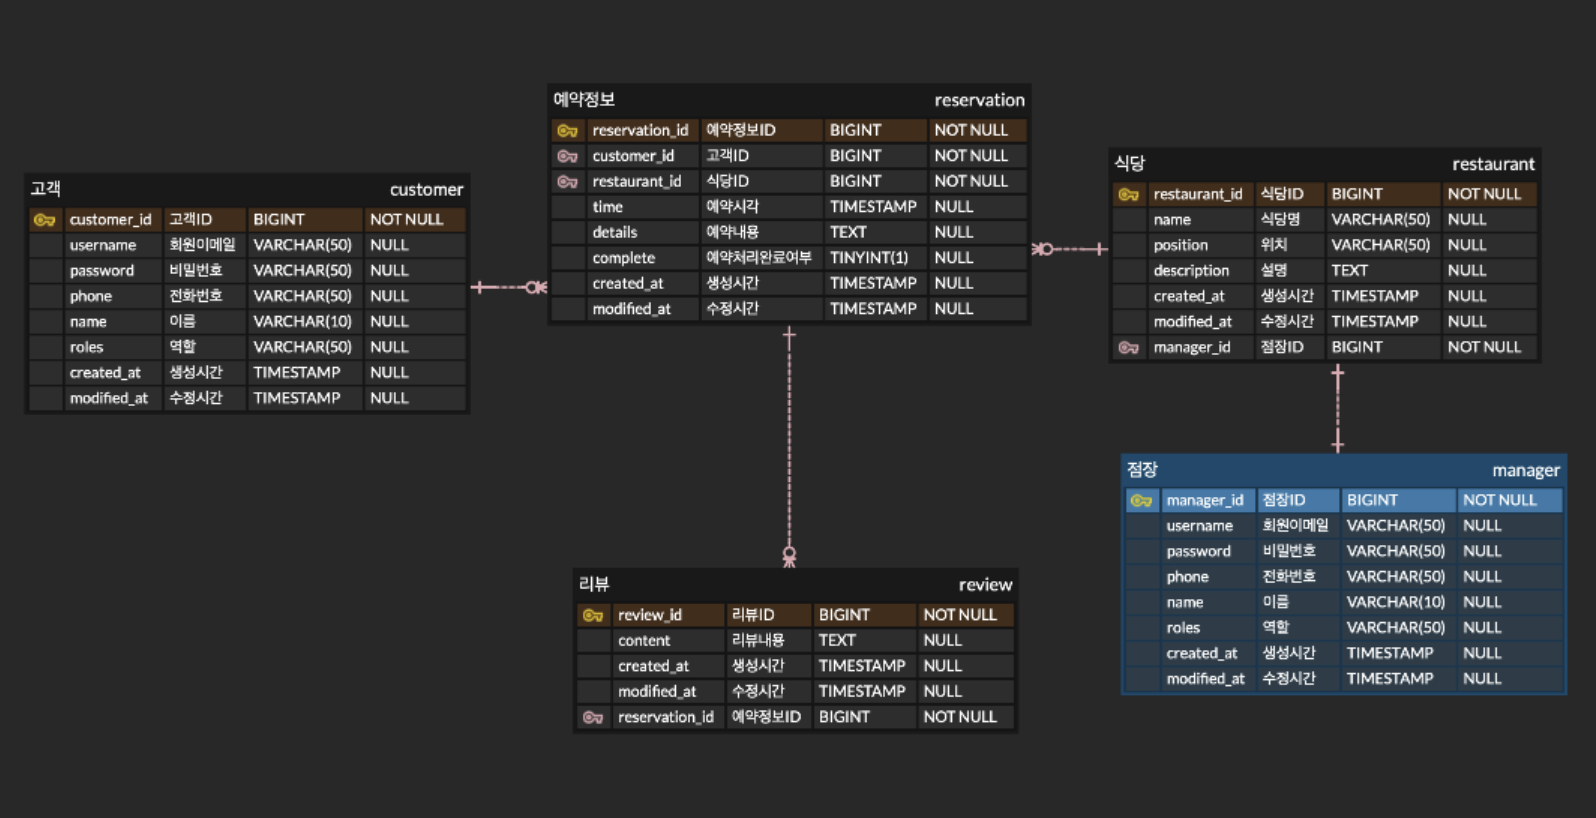
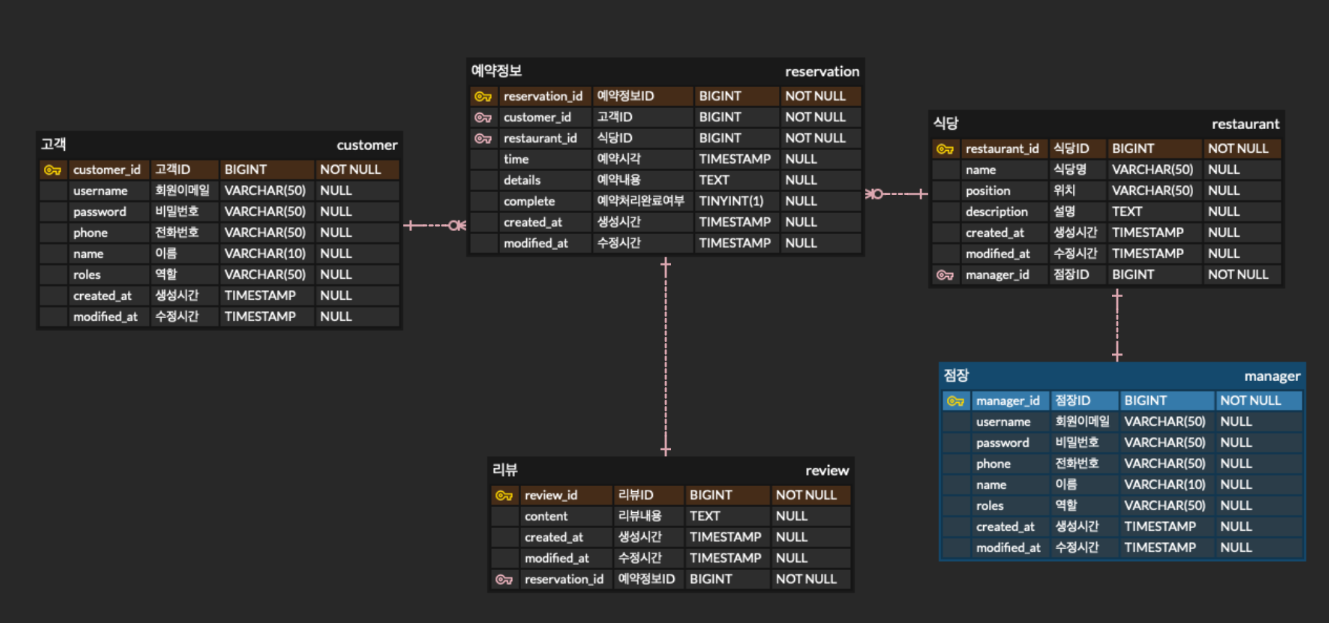
feat: [004-RESTAURANT-CREATE] 식당 등록 및 식당 전체 조회 구현
- Restaurant 관련 레포지토리 및 DTO 추가
- 식당 등록을 구현함.
- 임시로 사용할 식당 조회 로직을 구현함.
- 로그인 시, 쿠키 기반으로 현재 등록된 유저 정보를 가져오는 기능 모듈 추가
- 패키지명 수정. domain -> persist
- API 테스트 완료.
- README UPDATE

Changed region(s): [[0.6479, 0.183, 0.9872, 0.9149], [0.0, 0.0915, 0.6479, 0.5185], [0.3394, 0.3965, 0.6479, 0.9454]]

diff --git a/src/main/java/com/zerobase/tablereservation/src/service/AuthService.java b/src/main/java/com/zerobase/tablereservation/src/service/AuthService.java
@@ -2,17 +2,21 @@ package com.zerobase.tablereservation.src.service;
 
 import com.zerobase.tablereservation.common.constant.Auth;
 import com.zerobase.tablereservation.common.constant.Authority;
-import com.zerobase.tablereservation.src.domain.CustomerRepository;
-import com.zerobase.tablereservation.src.domain.ManagerRepository;
-import com.zerobase.tablereservation.src.domain.entity.Customer;
-import com.zerobase.tablereservation.src.domain.entity.Manager;
+import com.zerobase.tablereservation.src.persist.CustomerRepository;
+import com.zerobase.tablereservation.src.persist.ManagerRepository;
+import com.zerobase.tablereservation.src.persist.entity.Customer;
+import com.zerobase.tablereservation.src.persist.entity.Manager;
+import com.zerobase.tablereservation.src.model.UserVO;
 import lombok.RequiredArgsConstructor;
 import lombok.extern.slf4j.Slf4j;
+import org.springframework.security.core.Authentication;
+import org.springframework.security.core.context.SecurityContextHolder;
 import org.springframework.security.core.userdetails.UserDetails;
 import org.springframework.security.core.userdetails.UserDetailsService;
 import org.springframework.security.core.userdetails.UsernameNotFoundException;
 import org.springframework.security.crypto.password.PasswordEncoder;
 import org.springframework.stereotype.Service;
+import org.springframework.util.ObjectUtils;
 
 import java.util.ArrayList;
 import java.util.List;
@@ -83,6 +87,37 @@ public class AuthService implements UserDetailsService {
         return manager;
     }
 
+    /*
+     현재 등록된 유저 정보 가져오기 (UserVO, - userId와 userName)
+     */
+    public UserVO getCurrentUserVO() {
+        Authentication authentication = SecurityContextHolder.getContext().getAuthentication();
+        if (!ObjectUtils.isEmpty(authentication) && authentication.isAuthenticated()) {
+            Object principal = authentication.getPrincipal();
+            if (principal instanceof UserDetails) {
+                var name = ((UserDetails) principal).getUsername();
+                var userdetails = loadUserByUsername(name);
+                if (userdetails instanceof Customer){
+                    return UserVO.builder()
+                            .userId(((Customer) userdetails).getId())
+                            .username(name)
+                            .build();
+                }
+
+                if (userdetails instanceof Manager){
+                    return UserVO.builder()
+                            .userId(((Manager) userdetails).getId())
+                            .username(name)
+                            .build();
+                }
+            }
+        }
+        throw new IllegalStateException("현재 로그인을 하지 않았거나 유저 정보가 존재하지 않습니다.");
+    }
+
+    /*
+       username으로 정보 가져오기.
+     */
     @Override
     public UserDetails loadUserByUsername(String username) throws UsernameNotFoundException {
         Optional<Customer> customerOptional = customerRepository.findByUsername(username);

diff --git a/src/main/java/com/zerobase/tablereservation/src/service/RestaurantService.java b/src/main/java/com/zerobase/tablereservation/src/service/RestaurantService.java
@@ -1,0 +1,47 @@
+package com.zerobase.tablereservation.src.service;
+
+import com.zerobase.tablereservation.src.persist.ManagerRepository;
+import com.zerobase.tablereservation.src.persist.RestaurantRepository;
+import com.zerobase.tablereservation.src.persist.entity.Manager;
+import com.zerobase.tablereservation.src.persist.entity.Restaurant;
+import com.zerobase.tablereservation.src.model.RestaurantRegisterDTO;
+import com.zerobase.tablereservation.src.model.UserVO;
+import lombok.RequiredArgsConstructor;
+import org.springframework.stereotype.Service;
+import org.springframework.transaction.annotation.Transactional;
+
+@Service
+@RequiredArgsConstructor
+public class RestaurantService {
+    private final RestaurantRepository restaurantRepository;
+    private final ManagerRepository managerRepository;
+    private final AuthService authService;
+
+    /*
+    식당 등록하기
+     */
+    @Transactional
+    public void registerRestaurant(RestaurantRegisterDTO dto){
+        UserVO userVO = authService.getCurrentUserVO();
+
+        Manager manager = managerRepository.findById(userVO.getUserId())
+                .orElseThrow(() -> new IllegalStateException("사용자를 찾을 수 없습니다."));
+
+        Restaurant restaurant = dto.toEntity();
+        restaurant.designateManager(manager);
+
+        restaurantRepository.save(restaurant);
+    }
+
+    /*
+    식당 수정하기
+     */
+
+
+
+    /*
+    식당 삭제하기
+     */
+
+
+}

diff --git a/src/main/java/com/zerobase/tablereservation/src/persist/entity/Manager.java b/src/main/java/com/zerobase/tablereservation/src/persist/entity/Manager.java
@@ -1,4 +1,4 @@
-package com.zerobase.tablereservation.src.domain.entity;
+package com.zerobase.tablereservation.src.persist.entity;
 
 
 import com.zerobase.tablereservation.common.entity.BaseEntity;
@@ -21,7 +21,7 @@ import java.util.stream.Collectors;
 @NoArgsConstructor
 @AllArgsConstructor
 @AuditOverride(forClass = BaseEntity.class)
-public class Customer extends BaseEntity implements UserDetails {
+public class Manager extends BaseEntity implements UserDetails {
     @Id
     @GeneratedValue(strategy = GenerationType.IDENTITY)
     private Long id;
@@ -32,7 +32,6 @@ public class Customer extends BaseEntity implements UserDetails {
     private String phone;
     private String name;
 
-    @Builder.Default
     @ElementCollection(fetch = FetchType.EAGER)
     private List<String> roles = new ArrayList<>();
 
@@ -42,4 +41,5 @@ public class Customer extends BaseEntity implements UserDetails {
                 .map(SimpleGrantedAuthority::new)
                 .collect(Collectors.toList());
     }
+
 }

diff --git a/src/main/java/com/zerobase/tablereservation/src/web/RestaurantController.java b/src/main/java/com/zerobase/tablereservation/src/web/RestaurantController.java
@@ -1,0 +1,26 @@
+package com.zerobase.tablereservation.src.web;
+
+import com.zerobase.tablereservation.src.model.RestaurantRegisterDTO;
+import com.zerobase.tablereservation.src.service.RestaurantService;
+import lombok.RequiredArgsConstructor;
+import org.springframework.http.ResponseEntity;
+import org.springframework.web.bind.annotation.PostMapping;
+import org.springframework.web.bind.annotation.RequestBody;
+import org.springframework.web.bind.annotation.RequestMapping;
+import org.springframework.web.bind.annotation.RestController;
+
+@RestController
+@RequiredArgsConstructor
+@RequestMapping("/restaurant-manage")
+public class RestaurantController {
+    private final RestaurantService restaurantService;
+
+
+    @PostMapping
+    public ResponseEntity<?> registerRestaurant(@RequestBody RestaurantRegisterDTO dto){
+        restaurantService.registerRestaurant(dto);
+        return ResponseEntity.ok("등록에 성공했습니다.");
+    }
+
+
+}

diff --git a/src/main/java/com/zerobase/tablereservation/src/persist/entity/Review.java b/src/main/java/com/zerobase/tablereservation/src/persist/entity/Review.java
@@ -1,13 +1,9 @@
-package com.zerobase.tablereservation.src.domain.entity;
-
+package com.zerobase.tablereservation.src.persist.entity;
 
 import com.zerobase.tablereservation.common.entity.BaseEntity;
 import jakarta.persistence.*;
 import lombok.*;
 import org.hibernate.envers.AuditOverride;
-
-import java.util.ArrayList;
-import java.util.List;
 
 @Entity
 @Getter
@@ -16,16 +12,15 @@ import java.util.List;
 @NoArgsConstructor
 @AllArgsConstructor
 @AuditOverride(forClass = BaseEntity.class)
-public class Restaurant extends BaseEntity {
+public class Review extends BaseEntity{
     @Id
     @GeneratedValue(strategy = GenerationType.IDENTITY)
     private Long id;
 
-    private String name;
-    private String position;
-    private String description;
+    private String content;
 
     @OneToOne
-    @JoinColumn(name = "manager_id")
-    private Manager manager;
+    @JoinColumn(name="reservation_id")
+    private Reservation reservation;
+
 }

diff --git a/src/main/java/com/zerobase/tablereservation/src/persist/entity/Restaurant.java b/src/main/java/com/zerobase/tablereservation/src/persist/entity/Restaurant.java
@@ -1,4 +1,5 @@
-package com.zerobase.tablereservation.src.domain.entity;
+package com.zerobase.tablereservation.src.persist.entity;
+
 
 import com.zerobase.tablereservation.common.entity.BaseEntity;
 import jakarta.persistence.*;
@@ -12,15 +13,20 @@ import org.hibernate.envers.AuditOverride;
 @NoArgsConstructor
 @AllArgsConstructor
 @AuditOverride(forClass = BaseEntity.class)
-public class Review extends BaseEntity{
+public class Restaurant extends BaseEntity {
     @Id
     @GeneratedValue(strategy = GenerationType.IDENTITY)
     private Long id;
 
-    private String content;
+    private String name;
+    private String position;
+    private String description;
 
     @OneToOne
-    @JoinColumn(name="reservation_id")
-    private Reservation reservation;
+    @JoinColumn(name = "manager_id")
+    private Manager manager;
 
+    public void designateManager(Manager manager){
+        this.manager = manager;
+    }
 }

diff --git a/src/main/java/com/zerobase/tablereservation/src/web/RestaurantSearchController.java b/src/main/java/com/zerobase/tablereservation/src/web/RestaurantSearchController.java
@@ -1,0 +1,24 @@
+package com.zerobase.tablereservation.src.web;
+
+import com.zerobase.tablereservation.src.service.RestaurantSearchService;
+import lombok.RequiredArgsConstructor;
+import org.springframework.http.ResponseEntity;
+import org.springframework.transaction.annotation.Transactional;
+import org.springframework.web.bind.annotation.GetMapping;
+import org.springframework.web.bind.annotation.RequestMapping;
+import org.springframework.web.bind.annotation.RestController;
+
+@RestController
+@RequiredArgsConstructor
+@RequestMapping("/restaurant-search")
+@Transactional(readOnly = true)
+public class RestaurantSearchController {
+
+    private final RestaurantSearchService restaurantSearchService;
+
+    @GetMapping
+    public ResponseEntity<?> searchAllRestaurants(){
+        return ResponseEntity.ok(restaurantSearchService.findAllRestaurants());
+    }
+
+}

diff --git a/src/main/java/com/zerobase/tablereservation/src/model/RestaurantRegisterDTO.java b/src/main/java/com/zerobase/tablereservation/src/model/RestaurantRegisterDTO.java
@@ -1,0 +1,30 @@
+package com.zerobase.tablereservation.src.model;
+
+import com.zerobase.tablereservation.src.persist.entity.Restaurant;
+import lombok.Builder;
+import lombok.Data;
+
+@Data
+@Builder
+public class RestaurantRegisterDTO {
+    private String name;
+    private String position;
+    private String description;
+
+    public Restaurant toEntity(){
+        return Restaurant.builder()
+                .name(name)
+                .position(position)
+                .description(description)
+                .build();
+    }
+
+    public static RestaurantRegisterDTO fromEntity(Restaurant restaurant){
+        return RestaurantRegisterDTO.builder()
+                .name(restaurant.getName())
+                .position(restaurant.getPosition())
+                .description(restaurant.getDescription())
+                .build();
+    }
+
+}

diff --git a/src/main/java/com/zerobase/tablereservation/src/persist/entity/Customer.java b/src/main/java/com/zerobase/tablereservation/src/persist/entity/Customer.java
@@ -1,4 +1,4 @@
-package com.zerobase.tablereservation.src.domain.entity;
+package com.zerobase.tablereservation.src.persist.entity;
 
 
 import com.zerobase.tablereservation.common.entity.BaseEntity;
@@ -21,7 +21,7 @@ import java.util.stream.Collectors;
 @NoArgsConstructor
 @AllArgsConstructor
 @AuditOverride(forClass = BaseEntity.class)
-public class Manager extends BaseEntity implements UserDetails {
+public class Customer extends BaseEntity implements UserDetails {
     @Id
     @GeneratedValue(strategy = GenerationType.IDENTITY)
     private Long id;
@@ -32,6 +32,7 @@ public class Manager extends BaseEntity implements UserDetails {
     private String phone;
     private String name;
 
+    @Builder.Default
     @ElementCollection(fetch = FetchType.EAGER)
     private List<String> roles = new ArrayList<>();
 

diff --git a/src/main/java/com/zerobase/tablereservation/src/service/RestaurantSearchService.java b/src/main/java/com/zerobase/tablereservation/src/service/RestaurantSearchService.java
@@ -1,0 +1,24 @@
+package com.zerobase.tablereservation.src.service;
+
+import com.zerobase.tablereservation.src.persist.RestaurantRepository;
+import com.zerobase.tablereservation.src.model.RestaurantRegisterDTO;
+import lombok.RequiredArgsConstructor;
+import org.springframework.stereotype.Service;
+
+import java.util.List;
+import java.util.stream.Collectors;
+
+@Service
+@RequiredArgsConstructor
+public class RestaurantSearchService {
+    private final RestaurantRepository restaurantRepository;
+
+    /*
+    등록된 모든 식당 조회
+     */
+    public List<RestaurantRegisterDTO> findAllRestaurants(){
+        return restaurantRepository.findAll()
+                .stream().map(RestaurantRegisterDTO::fromEntity)
+                .collect(Collectors.toList());
+    }
+}

diff --git a/src/main/java/com/zerobase/tablereservation/common/config/SecurityConfig.java b/src/main/java/com/zerobase/tablereservation/common/config/SecurityConfig.java
@@ -40,7 +40,9 @@ public class SecurityConfig {
                     auth -> auth
                             .requestMatchers("/auth/**").permitAll()
                             .requestMatchers("/v3/**", "/swagger-ui/**").permitAll()
-//                            .requestMatchers("/hello/**").hasAuthority("MANAGER") test용 지울것.
+                            .requestMatchers("/hello/**").hasAuthority("MANAGER")// test용 지울것.
+                            .requestMatchers("/restaurant-manage/**").hasAuthority("MANAGER")
+                            .requestMatchers("/restaurant-search/**").permitAll()
                             .anyRequest().denyAll()
 
             ).addFilterBefore(this.jwtAuthenticationFilter, UsernamePasswordAuthenticationFilter.class);

diff --git a/src/main/java/com/zerobase/tablereservation/common/security/JwtAuthenticationFilter.java b/src/main/java/com/zerobase/tablereservation/common/security/JwtAuthenticationFilter.java
@@ -34,7 +34,7 @@ public class JwtAuthenticationFilter extends OncePerRequestFilter {
             SecurityContextHolder.getContext()
                     .setAuthentication(auth); // 인증정보 등록하기.
             log.info("{} -> ", SecurityContextHolder.getContext().getAuthentication());
-            log.info(String.format("[%s] ->", request.getRequestURI()));
+            log.info("{} ->", request.getRequestURI());
         }
 
         filterChain.doFilter(request, response);
